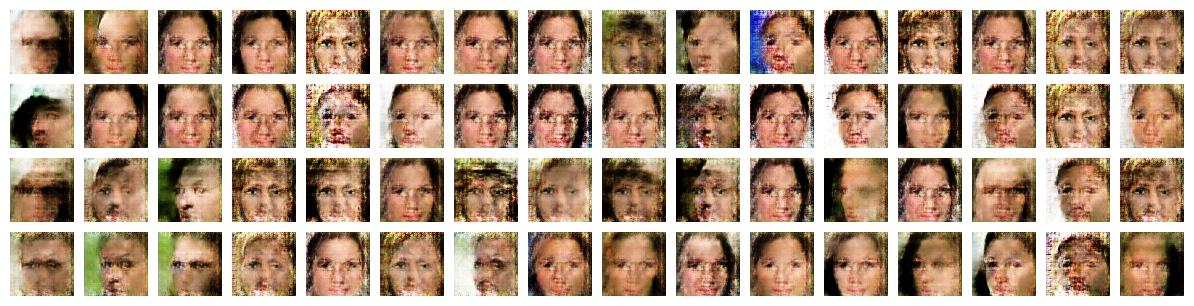
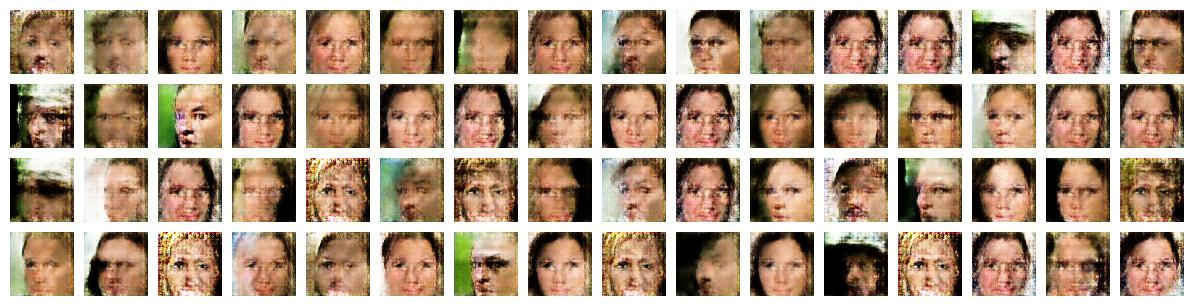
build: add gradient penalty

diff --git a/wgan/wgan.py b/wgan/wgan.py
@@ -143,11 +143,11 @@ class WassersteinGAN:
 
             # Gradient Penalty for critic loss
             if self.__gp is not None:
-                alpha = tf.random_uniform(shape=[dynamic_batch, 1, 1, 1], minval=0., maxval=1.)
-                differences = self.__generated_image - input_image
-                interpolates = input_image + (alpha * differences)
-                logit_interpolate = self.__base_model.critic(interpolates, reuse=True, **self.__config_critic)
-                gradients = tf.gradients(logit_interpolate, [interpolates])[0]
+                epsilon = tf.random_uniform([], 0.0, 1.0)
+                penalty_target = self.__generated_image * (1 - epsilon) - input_image * epsilon
+
+                logit_interpolate = self.__base_model.critic(penalty_target, reuse=True, **self.__config_critic)
+                gradients = tf.gradients(logit_interpolate, penalty_target)[0]
                 slopes = tf.sqrt(tf.reduce_sum(tf.square(gradients), reduction_indices=[1]))
                 gradient_penalty = self.__gp * tf.reduce_mean((slopes - 1.) ** 2)
             else:

diff --git a/bin/generate_img.py b/bin/generate_img.py
@@ -61,11 +61,12 @@ if __name__ == '__main__':
 
     images = model_instance.generate_image()
 
-    for img in images:
+    for i, img in enumerate(images):
+        if i + 1 > n*m:
+            break
 
         end_x = start_x + 64
         end_y = start_y + 64
-
         canvas[start_y:end_y, start_x:end_x, :] = img
 
         if x < n:

diff --git a/README.md b/README.md
@@ -1,22 +1,69 @@
-# Wasserstein GAN 
+# Wasserstein GAN (with Gradient Penalty) 
 [![dep1](https://img.shields.io/badge/Tensorflow-1.3+-blue.svg)](https://www.tensorflow.org/)
 [![license](https://img.shields.io/badge/License-MIT-brightgreen.svg)](https://github.com/asahi417/WassersteinGAN/blob/master/LICENSE)
 
-Tensorflow implementation of [Wasserstein GAN](https://arxiv.org/pdf/1701.07875.pdf) with [gradient penalty](https://papers.nips.cc/paper/7159-improved-training-of-wasserstein-gans.pdf).
+Tensorflow implementation of [Wasserstein GAN](https://arxiv.org/pdf/1701.07875.pdf) with [gradient penalty](https://papers.nips.cc/paper/7159-improved-training-of-wasserstein-gans.pdf)
+and [DCGAN](https://arxiv.org/pdf/1511.06434.pdf).
 Properties are summalized as below
 
 - Tested by [CelebA dataset](http://mmlab.ie.cuhk.edu.hk/projects/CelebA.html) 
 - Data is encoded as TFRecord format
 
-There already exist several implementations of WGAN by tensorflow, but
-few implementations use TFRecord, which is modern data feeding format optimized as used in tensorflow graph.
-In this repository, TFRecord is used as data feeder for CelebA dataset.
 
 # How to use it ?
-Clone the repository and set up
+Clone the repository
 
 ```
 git clone https://github.com/asahi417/WassersteinGAN
 cd WassersteinGAN
 pip install .
+mkdir datasets
 ```
+
+CelebA dataset need to be downloaded from [here](http://mmlab.ie.cuhk.edu.hk/projects/CelebA.html), and be located below the directory `datasets`, so the data directory should be seems like
+
+```
+WassersteinGAN/datasets/celeba/img/img_align_celeba
+```
+
+***TFRecord***
+
+To produce TFRecord file, 
+
+```
+python bin/build_tfrecord.py --data celeba -r 64 -c 108
+
+optional arguments:
+    -c [CROP], --crop [CROP] Each image will be center cropped by this integer.
+    -r [RESIZE], --resize [RESIZE] Each image will be resized by this integer.
+``` 
+
+***Train Model***
+
+```
+python bin/train.py -m [MODEL] -e [EPOCH] -c [CROP] -r [RESIZE] --data [DATA]
+
+optional arguments:
+  -m [MODEL], --model [MODEL] `dcgan` or `wgan`
+  -e [EPOCH], --epoch [EPOCH] Epoch.
+  -c [CROP], --crop [CROP]
+  -r [RESIZE], --resize [RESIZE]
+```
+
+Hyperparameters are [here](./bin/hyperparameter).
+
+***Visualization***
+
+```
+usage: generate_img.py -m [MODEL] -v [VERSION] -c [CROP] -r [RESIZE] --data [DATA]
+
+optional arguments:
+  -m [MODEL], --model [MODEL] `dcgan` or `wgan`
+  -v [VERSION], --version [VERSION] version of checkpoint
+  -c [CROP], --crop [CROP]
+  -r [RESIZE], --resize [RESIZE]
+```
+
+# Generated Images
+
+
